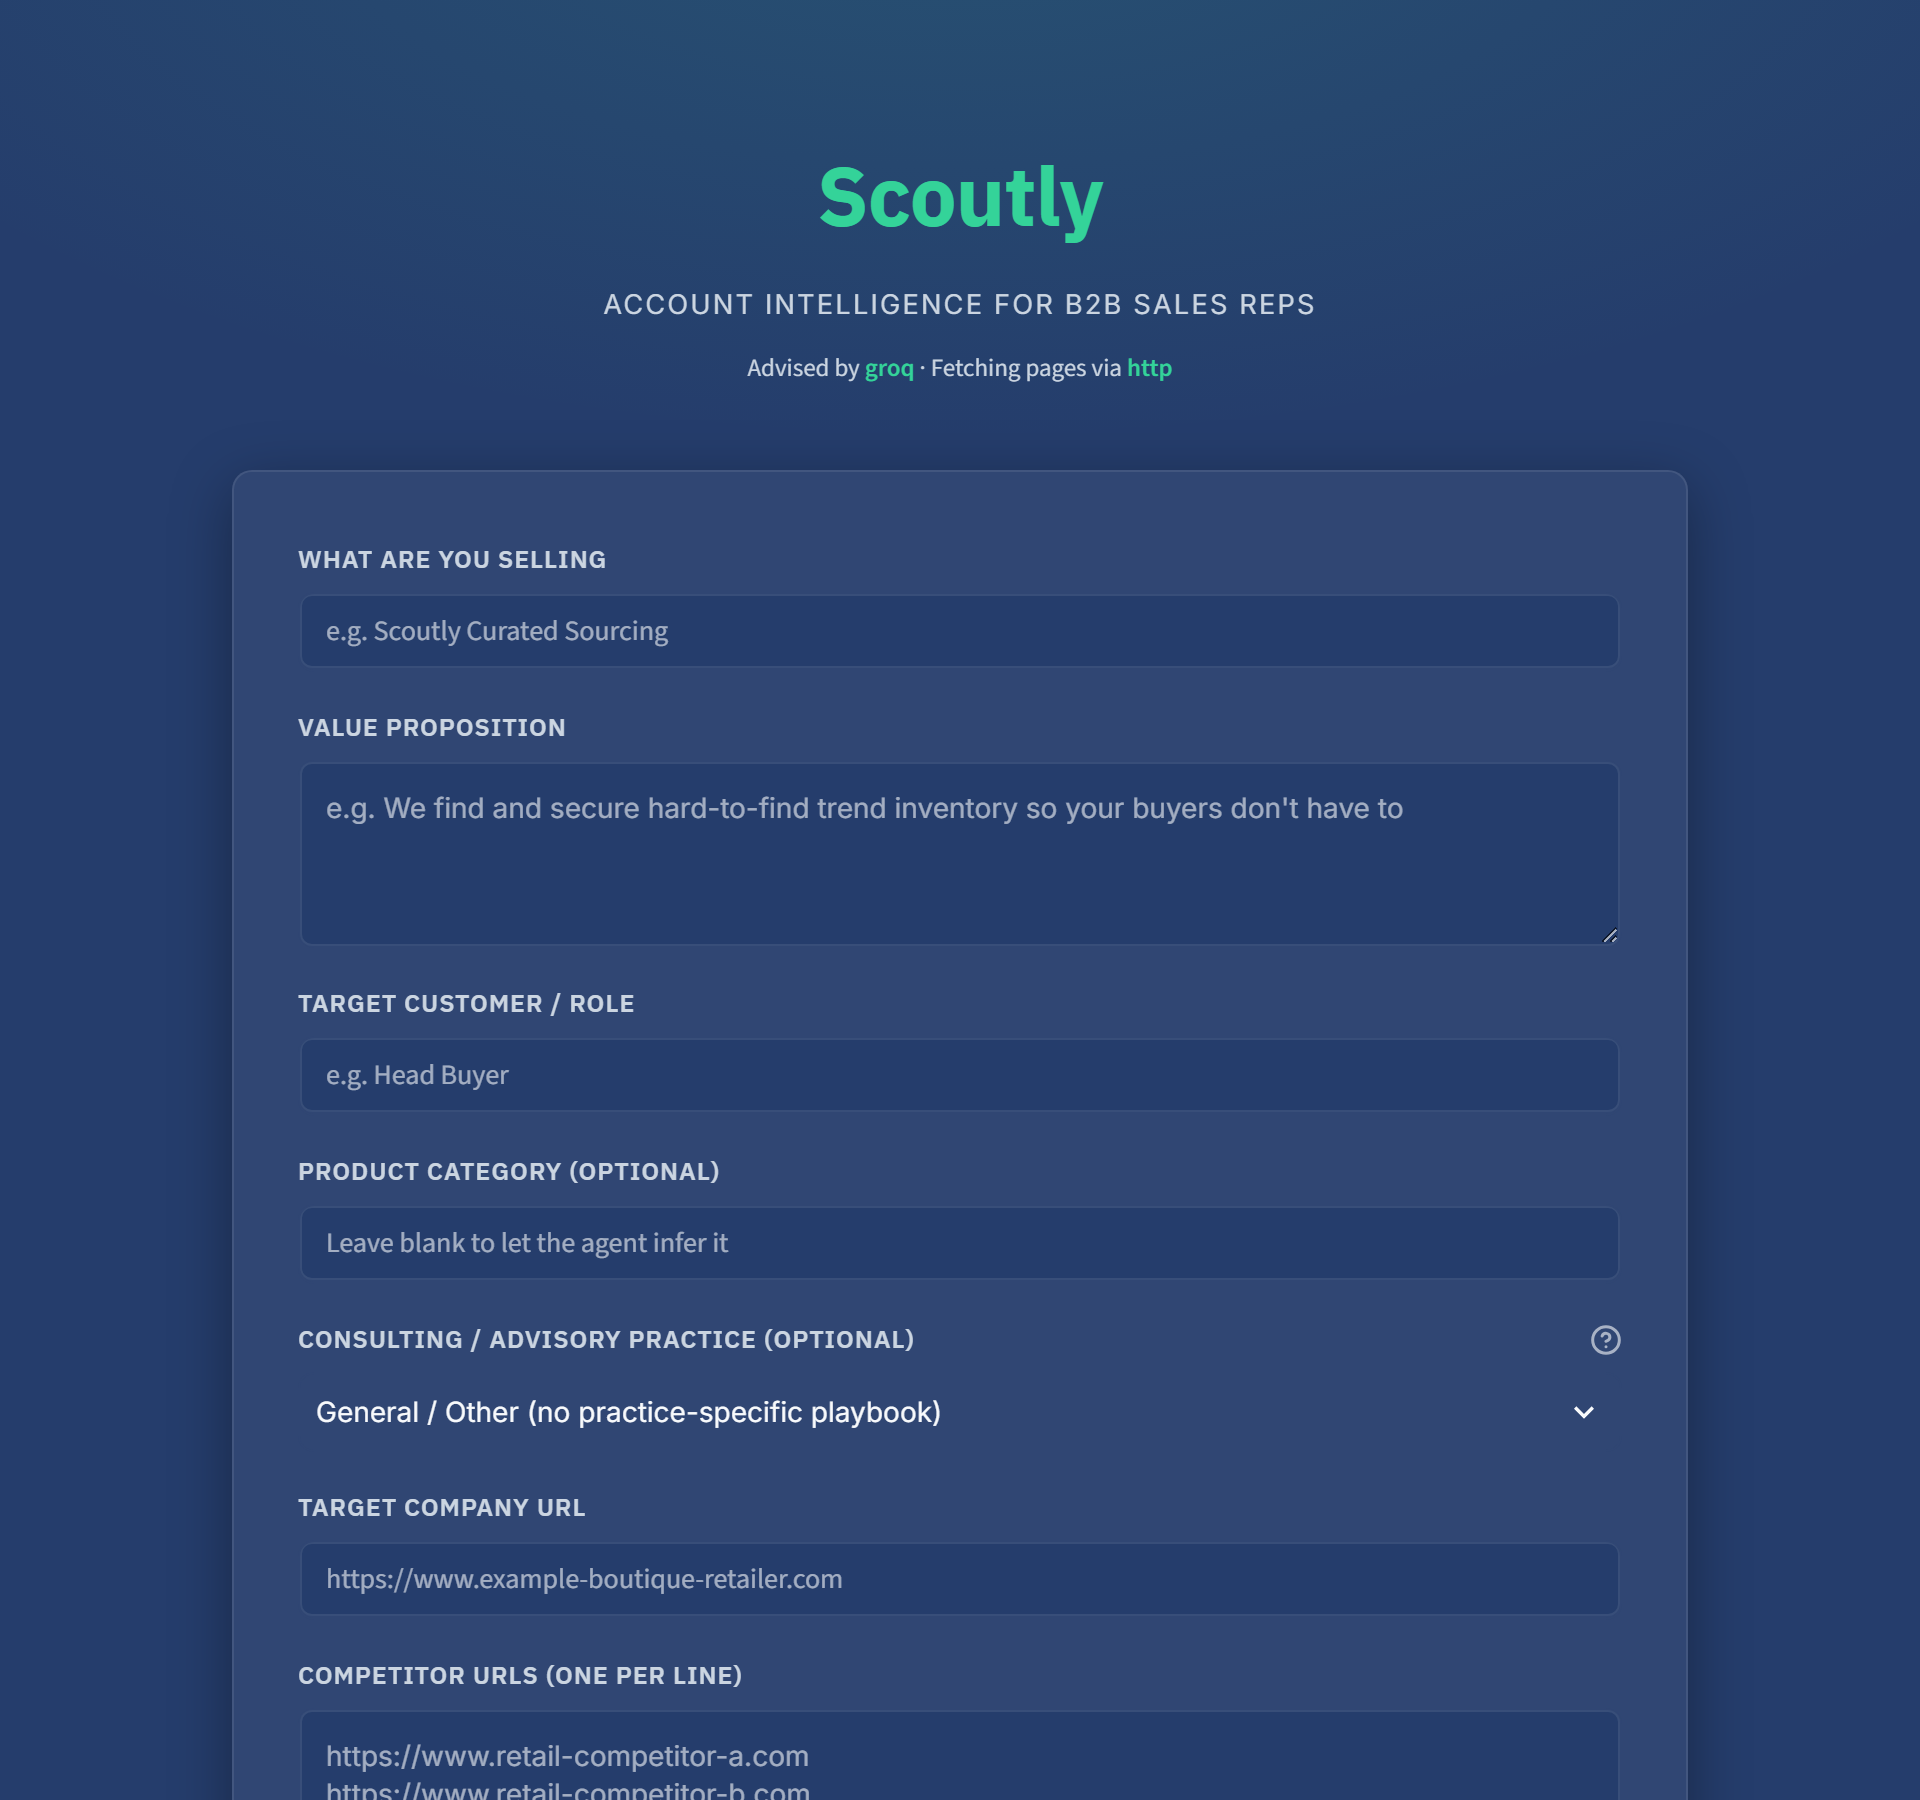
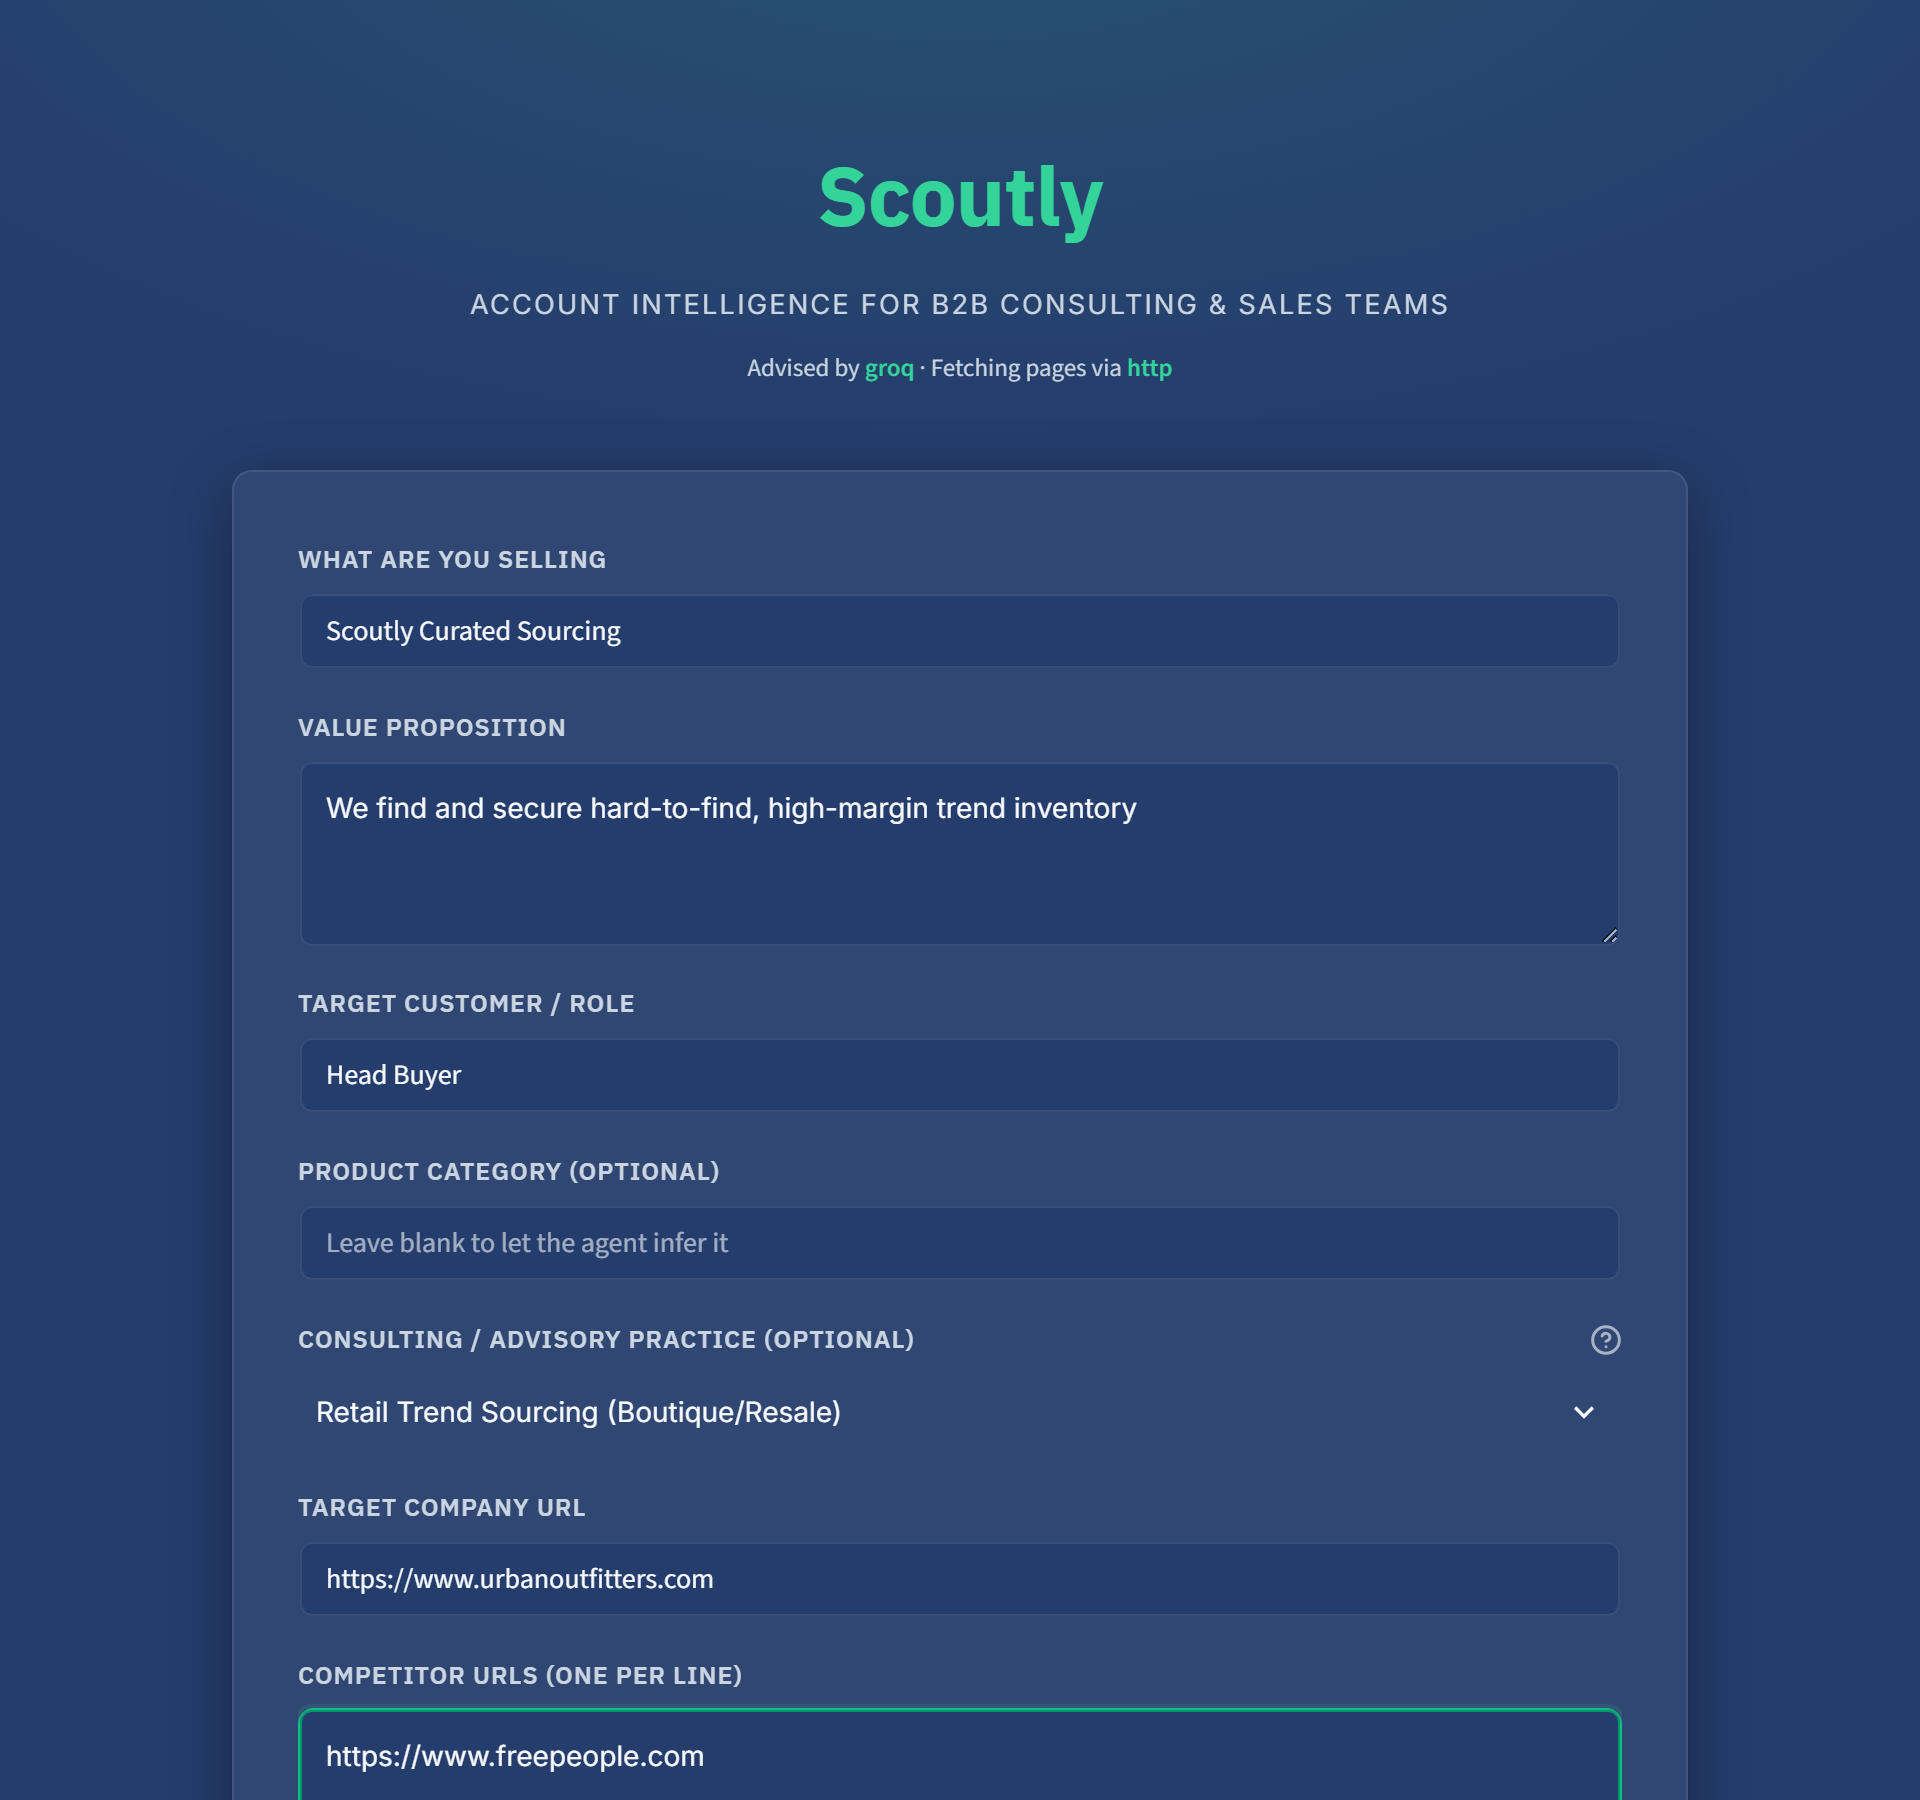
Reposition the tagline around consulting, not just sales reps
Changes "Account Intelligence for B2B Sales Reps" to "Account
Intelligence for B2B Consulting & Sales Teams" in both the README intro
and the app's hero subtitle, so the headline claim matches the
consulting-firm positioning the practice playbooks are built around,
while keeping "sales" since the codebase's own vocabulary (agent names,
schema fields) is still sales-terminology throughout. Form screenshot
regenerated.

diff --git a/streamlit_app.py b/streamlit_app.py
@@ -611,7 +611,7 @@ st.markdown(
     f"""
     <div class="sc-hero">
         <p class="sc-mark">Scoutly</p>
-        <p class="sc-tagline">Account intelligence for B2B sales reps</p>
+        <p class="sc-tagline">Account intelligence for B2B consulting & sales teams</p>
         <p class="sc-provider">Advised by <b>{PROVIDER}</b> · Fetching pages via <b>{FETCH_MODE}</b></p>
     </div>
     """,

diff --git a/README.md b/README.md
@@ -1,7 +1,7 @@
 # Scoutly — Multi-Agent B2B Account Intelligence Assistant (CAP 931 Capstone)
 
-Scoutly helps a B2B sales rep research a prospective company before
-outreach. Give it what you're selling, your value proposition, the target
+Scoutly helps a B2B consulting or sales rep research a prospective company
+before outreach. Give it what you're selling, your value proposition, the target
 company's URL, and its competitors' URLs, and five AI agents chain
 together to produce a one-page account intelligence brief: company
 strategy, leadership, press/compliance initiatives, competitive
@@ -427,6 +427,14 @@ addresses from the server.
   research tools (the audience this tool is actually built for) tend to
   use — keeping the larger, bolder panel headings for hierarchy, since
   size and weight aid legibility in a way a glow effect doesn't.
+- Made the intake form's placeholder examples industry-neutral (they'd
+  stayed retail-sourcing flavored even after the practice-area
+  generalization, which undercut the point), and reworded the tagline
+  from "Account Intelligence for B2B Sales Reps" to "Account Intelligence
+  for B2B Consulting & Sales Teams" to lead with the consulting-firm
+  positioning the practice playbooks are actually built around, while
+  keeping "sales" since the codebase's own vocabulary (agent names,
+  schema fields) is still sales-terminology throughout.
 
 ## 14. Problems I ran into, and how I fixed them
 
